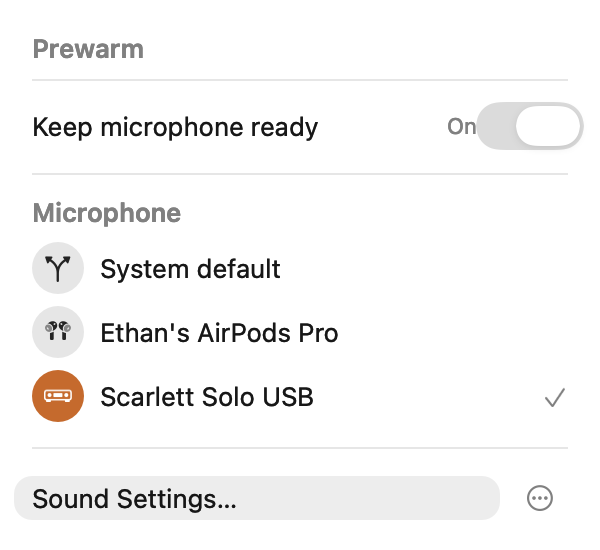
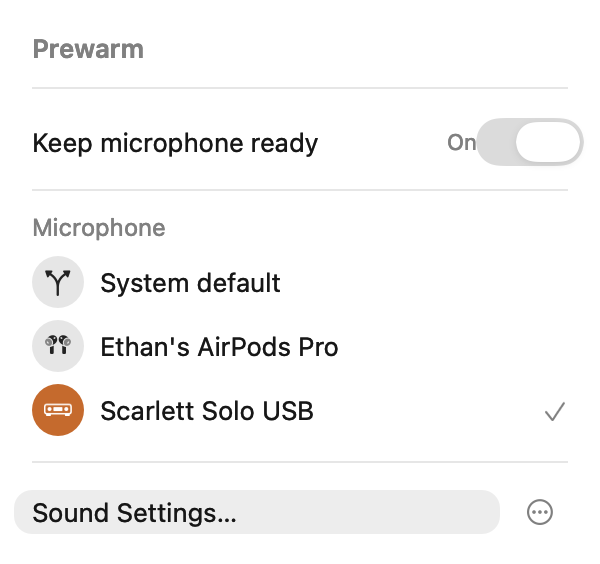
fix(ui): match native panel anchor and active status state

diff --git a/Sources/Prewarm/PrewarmPanelHost.swift b/Sources/Prewarm/PrewarmPanelHost.swift
@@ -2,9 +2,11 @@ import AppKit
 
 private final class FloatingPanel: NSPanel {
     var onDismiss: (() -> Void)?
+    var onHidden: (() -> Void)?
     override var canBecomeKey: Bool { true }
     override var canBecomeMain: Bool { false }
     override func cancelOperation(_ sender: Any?) { onDismiss?() }
+    override func orderOut(_ sender: Any?) { super.orderOut(sender); onHidden?() }
 }
 
 /// One native panel/window frame and one supported material, without popover chrome.
@@ -51,18 +53,25 @@ final class PrewarmPanelHost {
         ])
         panel.contentView = material
         panel.onDismiss = { [weak self] in self?.dismiss() }
+        panel.onHidden = { [weak self] in self?.clearPresentation() }
     }
     func refreshSize() {
         // Full-size content occupies the native frame; do not add title-bar height.
         panel.setFrame(NSRect(origin: panel.frame.origin, size: content.preferredContentSize), display: false)
         panel.contentView?.layoutSubtreeIfNeeded()
-        if isShown, let anchor { position(below: anchor) }
+        if isShown, let anchor { position(below: anchor); anchor.highlight(true) }
     }
     func show(below button: NSStatusBarButton) {
         anchor = button
         refreshSize()
         position(below: button)
         panel.makeKeyAndOrderFront(nil)
+        button.highlight(true)
+        // Status-button mouse tracking can clear highlighting after its action returns.
+        DispatchQueue.main.async { [weak self] in
+            guard let self, self.isShown else { return }
+            self.anchor?.highlight(true)
+        }
         installMonitors()
     }
     private func position(below button: NSStatusBarButton) {
@@ -71,11 +80,15 @@ final class PrewarmPanelHost {
         let visible = screen.visibleFrame
         let size = panel.frame.size
         let x = min(max(rect.midX - size.width / 2, visible.minX + 8), visible.maxX - size.width - 8)
-        let y = max(visible.minY + 8, min(rect.minY - 6, visible.maxY - 6) - size.height)
+        let y = max(visible.minY + 8, min(window.frame.minY, visible.maxY) - 6 - size.height)
         panel.setFrameOrigin(NSPoint(x: x, y: y))
     }
     func dismiss() {
         panel.orderOut(nil)
+    }
+    private func clearPresentation() {
+        anchor?.highlight(false)
+        anchor = nil
         if let monitor = globalMonitor { NSEvent.removeMonitor(monitor) }
         if let monitor = localMonitor { NSEvent.removeMonitor(monitor) }
         globalMonitor = nil
@@ -94,6 +107,7 @@ final class PrewarmPanelHost {
         }
     }
     deinit {
+        anchor?.highlight(false)
         if let monitor = globalMonitor { NSEvent.removeMonitor(monitor) }
         if let monitor = localMonitor { NSEvent.removeMonitor(monitor) }
     }

diff --git a/Sources/Prewarm/PrewarmPanel.swift b/Sources/Prewarm/PrewarmPanel.swift
@@ -146,7 +146,7 @@ final class PrewarmPanel: NSViewController {
             warmingSwitch.trailingAnchor.constraint(equalTo: row.trailingAnchor), warmingSwitch.centerYAnchor.constraint(equalTo: row.centerYAnchor)
         ])
         let micHeader = NSTextField(labelWithString: "Microphone")
-        micHeader.font = .systemFont(ofSize: 13, weight: .semibold)
+        micHeader.font = .systemFont(ofSize: 12, weight: .regular)
         micHeader.textColor = .secondaryLabelColor
         deviceStack.orientation = .vertical
         deviceStack.distribution = .fill
@@ -198,8 +198,8 @@ final class PrewarmPanel: NSViewController {
         stack.setHuggingPriority(.required, for: .vertical)
         stack.alignment = .centerX
         stack.spacing = 10
-        stack.setCustomSpacing(8, after: headerRow)
-        stack.setCustomSpacing(8, after: headerDivider)
+        stack.setCustomSpacing(12, after: headerRow)
+        stack.setCustomSpacing(12, after: headerDivider)
         stack.setCustomSpacing(4, after: micHeader)
         stack.translatesAutoresizingMaskIntoConstraints = false
         content.addSubview(stack)

diff --git a/scripts/AppearanceReview/main.swift b/scripts/AppearanceReview/main.swift
@@ -5,7 +5,7 @@ let root = CommandLine.arguments[1]
 let app = NSApplication.shared
 app.setActivationPolicy(.prohibited)
 app.applicationIconImage = NSImage(contentsOfFile: "\(root)/assets/Prewarm.icns")!
-let controller = AboutController(info: ["CFBundleShortVersionString": "0.1.2", "CFBundleVersion": "11"])
+let controller = AboutController(info: ["CFBundleShortVersionString": "0.1.2", "CFBundleVersion": "12"])
 let window = PrewarmWindow(contentRect: NSRect(x: 0, y: 0, width: 320, height: 460), styleMask: [.titled, .closable, .fullSizeContentView], backing: .buffered, defer: false)
 window.contentViewController = controller
 for (name, appearanceName) in [("light", NSAppearance.Name.aqua), ("dark", NSAppearance.Name.darkAqua)] {

diff --git a/assets/icon-review.md b/assets/icon-review.md
@@ -61,3 +61,7 @@ Build 9 removes the privacy sentence from About only and replaces its separate U
 Build 10 follows the user's native Mic Mode hover reference. In the2× reference, hover spans x82–662/y90–154 and the first circle x100–152/y96–148:9pt horizontal padding,3pt vertical padding,32pt row and26pt badge, with roughly9pt rounded corners. The label begins8pt after the circle. Rows now extend9pt around the previously aligned content on both sides; badges and section/divider still start at16pt. The parent layout contains the expanded hit region, rather than drawing outside clipped/non-hit bounds. Native row centers advance32pt, with no extra inter-row gap. Checks retain9pt trailing padding.
 
 Sound Settings shares the existing minimal NSButton hover/focus implementation, with a compact22pt native-reference height. Its label remains aligned at16pt and its hover starts9pt earlier; it stops6pt before the separate28pt More button. The isolated fixture asserts badge/header alignment,9/3pt insets, expanded-padding hit testing and nonoverlapping Sound/More bounds, then renders each hover separately in light/dark. No native glass/host, switch behavior, capture or UID-policy change.
+
+Build 12 includes build11's simpler More menu. The status button uses only native highlight(true/false) while the panel is visible, reasserted after mouse tracking and state-image updates; every existing dismissal orders out the native window and clears highlight/monitors through its shared callback. No custom menu-bar background. The panel top now anchors6pt below the actual status-item window bottom, clamped to screen visibleFrame, rather than the button's potentially inset rectangle. Root compares the live position to the supplied native Sound reference.
+
+Microphone alone uses12pt regular secondary text from the Mic Mode reference; the Prewarm heading remains unchanged. Header-to-divider and divider-to-switch spacing are12pt each as separately requested. Same-instance light/dark fixtures retain expanded hover hit testing and show282pt native frame/content height. Capture, selected UID, materials and action targets are unchanged; root validates native status highlight and actual bar position on the installed app.

diff --git a/README.md b/README.md
@@ -1,6 +1,6 @@
 # Prewarm
 
-Prewarm 0.1.2 (build 11), by Ethan Proia.
+Prewarm 0.1.2 (build 12), by Ethan Proia.
 
 A tiny macOS menu-bar utility that keeps your microphone warm by keeping its input stream active. It immediately discards audio samples; it does not record, analyze, save, or transmit audio. No third-party dependencies or network calls.
 
